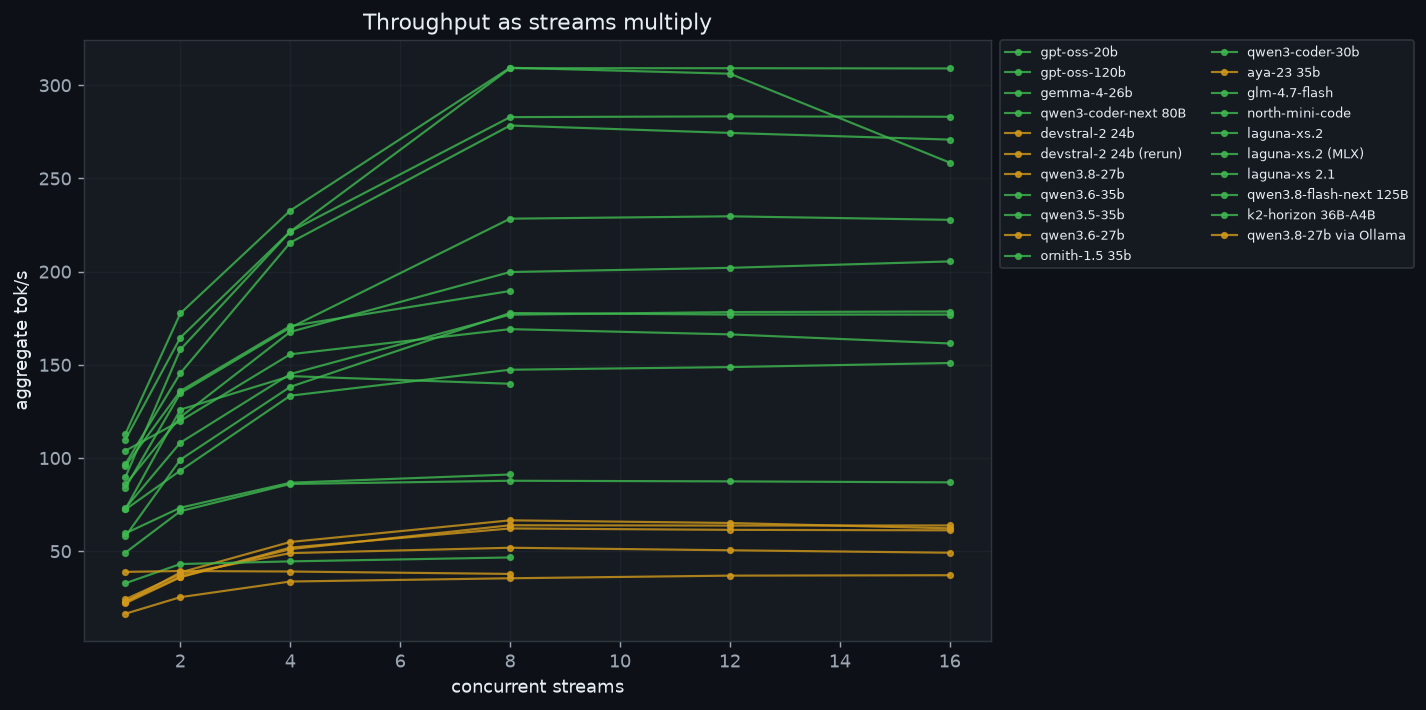
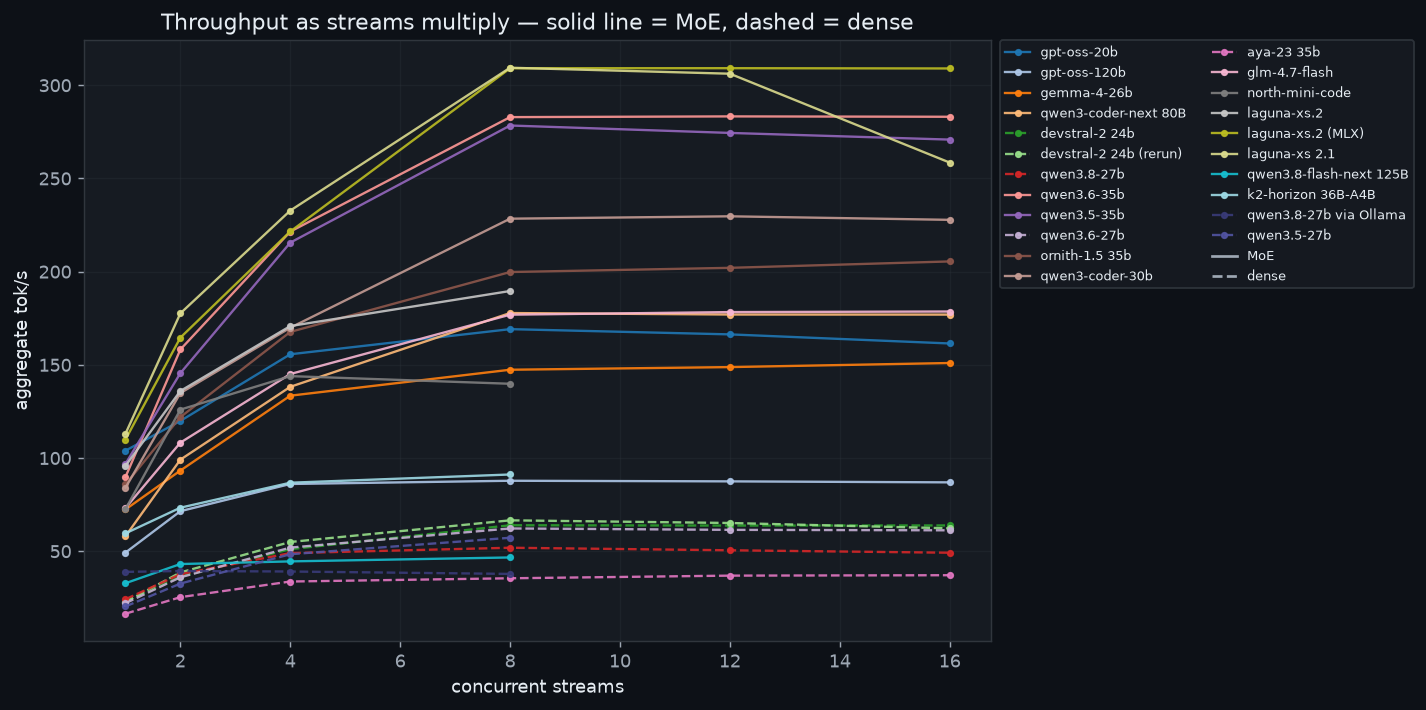
Give every concurrency line its own color
The chart colored by architecture (green MoE / amber dense), so ~20 lines
shared two colors and the legend could not be matched to any line. Now
each model gets a distinct tab20/tab20b color and architecture is carried
by line style: solid = MoE, dashed = dense, with a style key in the legend.

diff --git a/scripts/make_charts.py b/scripts/make_charts.py
@@ -176,19 +176,31 @@ for i, (_, p, tt) in enumerate(rows):
 save(fig, "brutal.png")
 
 # ---- 4. concurrency scaling ------------------------------------------------
+# One distinct color per model so the legend actually identifies each line;
+# architecture is carried by line style instead (solid = MoE, dashed = dense).
 fig, ax = plt.subplots(figsize=(9, 6))
+plotted = []
 for t in ms:
     d = latest(f"concurrency/{t}-20*.json")
-    if not d:
-        continue
+    if d:
+        plotted.append((t, d))
+palette = (list(matplotlib.colormaps["tab20"].colors)
+           + list(matplotlib.colormaps["tab20b"].colors))
+for i, (t, d) in enumerate(plotted):
     lv = d["levels"]
+    moe = (ARCH.get(t) or (None,))[0] == "MoE"
     ax.plot([l["level"] for l in lv], [l["aggregate_tok_s"] for l in lv],
-            marker="o", ms=3, lw=1.2, label=label(t), color=color(t), alpha=.8)
+            marker="o", ms=3, lw=1.3, label=label(t), color=palette[i % len(palette)],
+            linestyle="-" if moe else "--", alpha=.9)
 ax.set_xlabel("concurrent streams")
 ax.set_ylabel("aggregate tok/s")
-ax.set_title("Throughput as streams multiply")
+ax.set_title("Throughput as streams multiply — solid line = MoE, dashed = dense")
 ax.grid(alpha=.3)
-ax.legend(fontsize=7, ncol=2, framealpha=.9, facecolor="#161b22",
+handles, labels_ = ax.get_legend_handles_labels()
+handles += [matplotlib.lines.Line2D([], [], color="#9da7b3", ls="-"),
+            matplotlib.lines.Line2D([], [], color="#9da7b3", ls="--")]
+labels_ += ["MoE", "dense"]
+ax.legend(handles, labels_, fontsize=7, ncol=2, framealpha=.9, facecolor="#161b22",
           edgecolor="#30363d", loc="upper left", bbox_to_anchor=(1.01, 1),
           borderaxespad=0)
 save(fig, "concurrency.png")

diff --git a/results/failures-perf/qwen35-27b-range_sums-told-t2.c b/results/failures-perf/qwen35-27b-range_sums-told-t2.c
@@ -1,0 +1,30 @@
+#include <stddef.h>
+
+void range_sums(const int *a, size_t n, const size_t *lo, const size_t *hi,
+                size_t q, long long *out) {
+    if (n == 0 || q == 0) {
+        return;
+    }
+
+    /* Build prefix sum array: prefix[i] = sum(a[0]...a[i-1]) */
+    /* Allocate on heap for large n to avoid stack overflow */
+    long long *prefix = (long long *)malloc((n + 1) * sizeof(long long));
+    if (prefix == NULL) {
+        return; /* Allocation failure; cannot process */
+    }
+
+    prefix[0] = 0;
+    for (size_t i = 0; i < n; ++i) {
+        prefix[i + 1] = prefix[i] + (long long)a[i];
+    }
+
+    /* Answer each query in O(1) */
+    for (size_t i = 0; i < q; ++i) {
+        size_t l = lo[i];
+        size_t r = hi[i];
+        /* Sum from index l to r inclusive is prefix[r+1] - prefix[l] */
+        out[i] = prefix[r + 1] - prefix[l];
+    }
+
+    free(prefix);
+}

diff --git a/results/failures-perf/qwen35-27b-range_sums-silent-t2.c b/results/failures-perf/qwen35-27b-range_sums-silent-t2.c
@@ -1,0 +1,27 @@
+#include <stddef.h>
+
+void range_sums(const int *a, size_t n, const size_t *lo, const size_t *hi, size_t q, long long *out) {
+    // Build prefix sum array
+    // prefix[i] = sum of a[0]...a[i-1], prefix[0] = 0
+    // We need size_t+1 elements to handle the range sum formula
+    long long *prefix = (long long *)malloc((n + 1) * sizeof(long long));
+    if (prefix == NULL) {
+        // In a real application, handle error appropriately
+        return;
+    }
+
+    prefix[0] = 0;
+    for (size_t i = 0; i < n; i++) {
+        prefix[i + 1] = prefix[i] + (long long)a[i];
+    }
+
+    // Answer each query
+    for (size_t i = 0; i < q; i++) {
+        size_t l = lo[i];
+        size_t h = hi[i];
+        // Sum of a[l]...a[h] = prefix[h+1] - prefix[l]
+        out[i] = prefix[h + 1] - prefix[l];
+    }
+
+    free(prefix);
+}

diff --git a/results/failures-perf/qwen35-27b-range_sums-told-t0.c b/results/failures-perf/qwen35-27b-range_sums-told-t0.c
@@ -1,0 +1,30 @@
+#include <stddef.h>
+
+void range_sums(const int *a, size_t n, const size_t *lo, const size_t *hi, size_t q, long long *out) {
+    if (n == 0) {
+        return;
+    }
+
+    // Precompute prefix sums
+    // prefix[i] = sum(a[0]...a[i-1]), prefix[0] = 0
+    // We need an array of size n+1
+    long long *prefix = (long long *)malloc((n + 1) * sizeof(long long));
+    if (prefix == NULL) {
+        return; // Handle allocation failure gracefully
+    }
+
+    prefix[0] = 0;
+    for (size_t i = 0; i < n; ++i) {
+        prefix[i + 1] = prefix[i] + (long long)a[i];
+    }
+
+    // Answer queries
+    for (size_t i = 0; i < q; ++i) {
+        size_t l = lo[i];
+        size_t h = hi[i];
+        // Sum from l to h inclusive is prefix[h+1] - prefix[l]
+        out[i] = prefix[h + 1] - prefix[l];
+    }
+
+    free(prefix);
+}

diff --git a/results/failures-perf/qwen35-27b-range_sums-told-t1.c b/results/failures-perf/qwen35-27b-range_sums-told-t1.c
@@ -1,0 +1,22 @@
+#include <stddef.h>
+
+void range_sums(const int *a, size_t n, const size_t *lo, const size_t *hi, size_t q, long long *out) {
+    long long *prefix = (long long *)malloc((n + 1) * sizeof(long long));
+    if (!prefix) {
+        for (size_t i = 0; i < q; ++i) out[i] = 0;
+        return;
+    }
+
+    prefix[0] = 0;
+    for (size_t i = 0; i < n; ++i) {
+        prefix[i + 1] = prefix[i] + (long long)a[i];
+    }
+
+    for (size_t i = 0; i < q; ++i) {
+        size_t l = lo[i];
+        size_t h = hi[i];
+        out[i] = prefix[h + 1] - prefix[l];
+    }
+
+    free(prefix);
+}

diff --git a/results/failures-perf/qwen35-27b-range_sums-silent-t1.c b/results/failures-perf/qwen35-27b-range_sums-silent-t1.c
@@ -1,0 +1,11 @@
+void range_sums(const int *a, size_t n, const size_t *lo, const size_t *hi, size_t q, long long *out) {
+    size_t i;
+    for (i = 0; i < q; i++) {
+        long long sum = 0;
+        size_t j;
+        for (j = lo[i]; j <= hi[i]; j++) {
+            sum += a[j];
+        }
+        out[i] = sum;
+    }
+}
